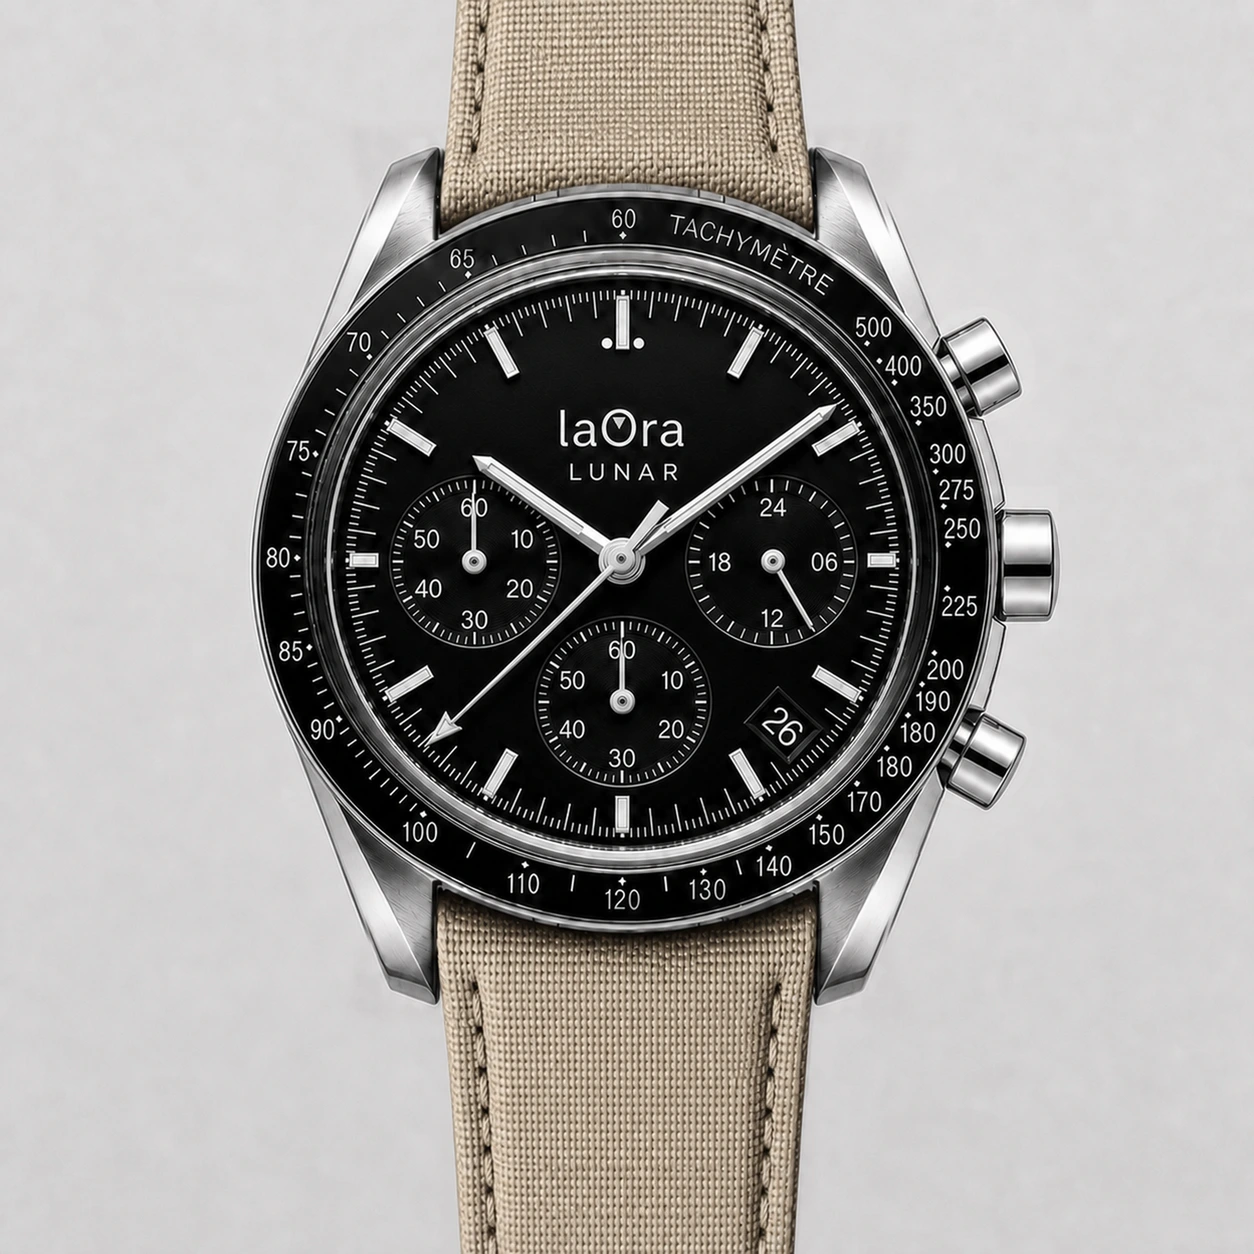
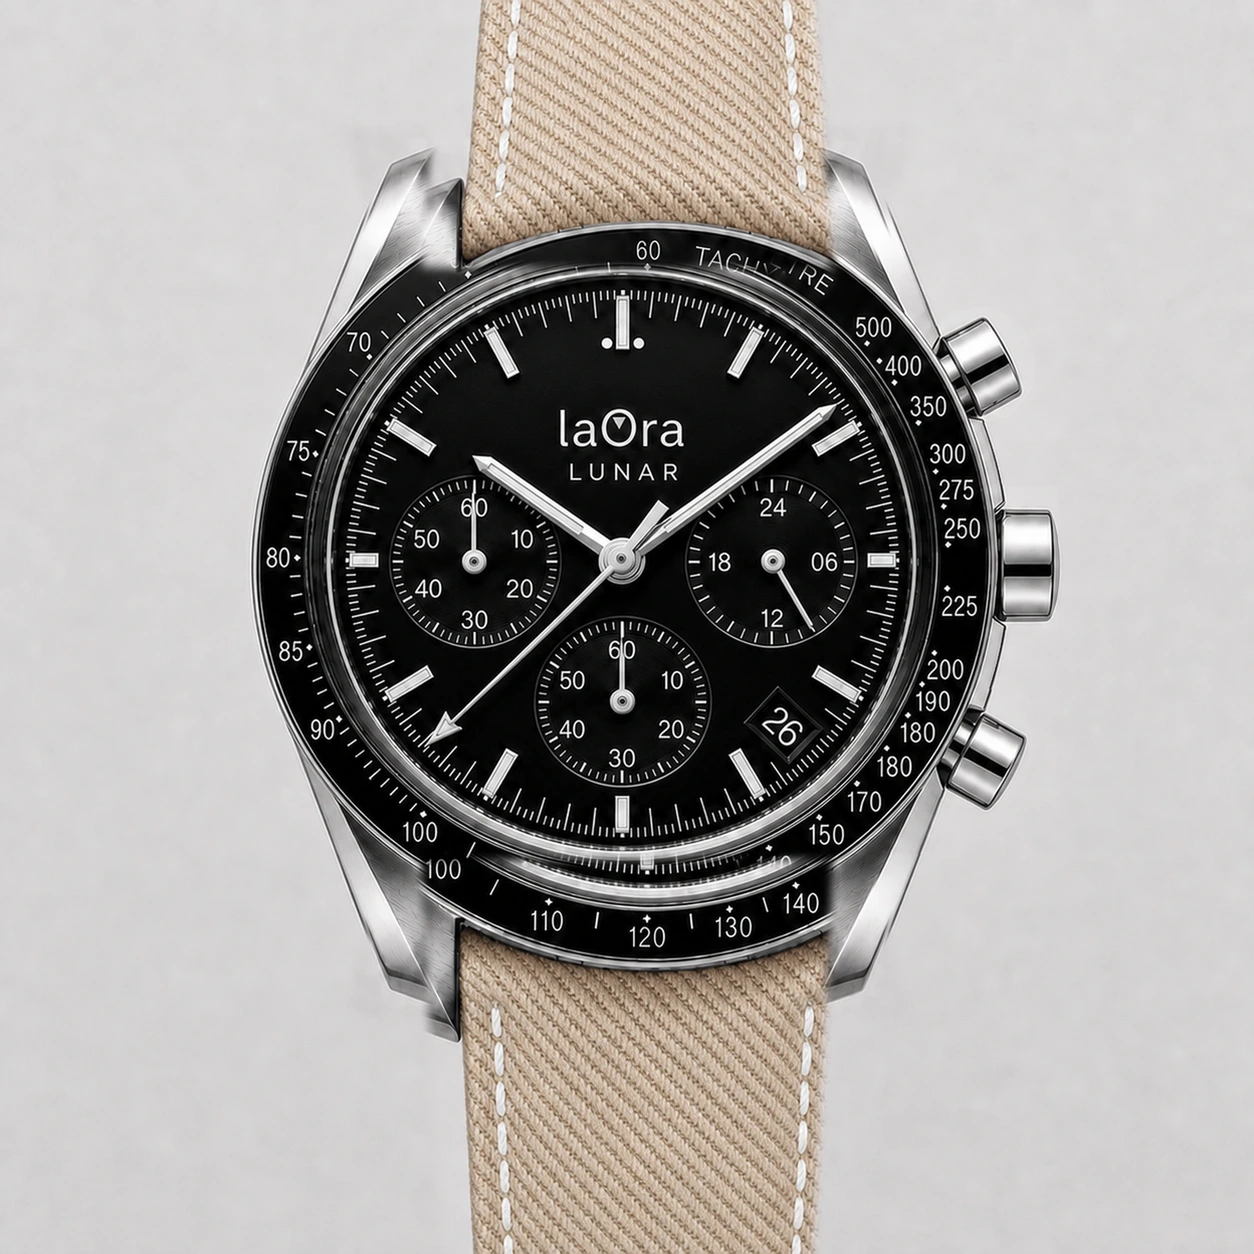
Lunar: el Nato + Piel es el tejido de espiga con hebilla mariposa
Sustituye a la familia de lona lisa, que se retira. Cinco colores: topo,
antracita, gris, azul claro y beige, todos con pespunte blanco y hebilla
mariposa plateada, a 5,48 €.

Alta en el libro P-049 a P-053 (anuncio 1005011862298088) con la captura
completa. Los cinco colores del proveedor cuadran uno a uno con las
cinco fotos.

Changed region(s): [[0.311, 0.6842, 0.6842, 1.0], [0.311, 0.0, 0.6842, 0.2177]]

diff --git a/lunar.html b/lunar.html
@@ -281,30 +281,16 @@
     /* Nato 11,29 € y nato+piel 4,79 € (Óscar, 18/08; el segundo es
        precio de OFERTA, reverificar antes de comprar). Todas con
        hebilla clásica plateada. */
-    'nato-piel-verde-militar': { coste: 4.79, cierre: 'Hebilla clásica plateada',
-      tec: 'nato de lona verde oliva con canto de piel, hebilla clásica de acero plateado' },
-    'nato-piel-azul': { coste: 4.79, cierre: 'Hebilla clásica plateada',
-      tec: 'nato de lona azul marino con canto de piel, hebilla clásica de acero plateado' },
-    'nato-piel-beige': { coste: 4.79, cierre: 'Hebilla clásica plateada',
-      tec: 'nato de lona beige con canto de piel, hebilla clásica de acero plateado' },
-    'nato-piel-gris-claro': { coste: 4.79, cierre: 'Hebilla clásica plateada',
-      tec: 'nato de lona gris claro con canto de piel, hebilla clásica de acero plateado' },
-    'nato-piel-naranja': { coste: 4.79, cierre: 'Hebilla clásica plateada',
-      tec: 'nato de lona naranja con canto de piel, hebilla clásica de acero plateado' },
-    'nato-piel-negro': { coste: 4.79, cierre: 'Hebilla clásica plateada',
-      tec: 'nato de lona negra con canto de piel, hebilla clásica de acero plateado' },
-    'nato-verde-militar': { coste: 11.29, cierre: 'Hebilla clásica plateada',
-      tec: 'nato de tejido verde militar de una pieza, pasadores y hebilla de acero' },
-    'nato-azul': { coste: 11.29, cierre: 'Hebilla clásica plateada',
-      tec: 'nato de tejido azul de una pieza, pasadores y hebilla de acero' },
-    'nato-beige': { coste: 11.29, cierre: 'Hebilla clásica plateada',
-      tec: 'nato de tejido beige de una pieza, pasadores y hebilla de acero' },
-    'nato-gris-claro': { coste: 11.29, cierre: 'Hebilla clásica plateada',
-      tec: 'nato de tejido gris claro de una pieza, pasadores y hebilla de acero' },
-    'nato-negro': { coste: 11.29, cierre: 'Hebilla clásica plateada',
-      tec: 'nato de tejido negro de una pieza, pasadores y hebilla de acero' },
-    'nato-negro-gris': { coste: 11.29, cierre: 'Hebilla clásica plateada',
-      tec: 'nato de tejido negro con franjas grises, pasadores y hebilla de acero' },
+    'nato-piel-topo': { coste: 5.48, cierre: 'Hebilla mariposa plateada',
+      tec: 'tejido de espiga color topo con pespunte blanco, hebilla mariposa de acero plateado' },
+    'nato-piel-antracita': { coste: 5.48, cierre: 'Hebilla mariposa plateada',
+      tec: 'tejido de espiga antracita con pespunte blanco, hebilla mariposa de acero plateado' },
+    'nato-piel-gris': { coste: 5.48, cierre: 'Hebilla mariposa plateada',
+      tec: 'tejido de espiga gris con pespunte blanco, hebilla mariposa de acero plateado' },
+    'nato-piel-azul-claro': { coste: 5.48, cierre: 'Hebilla mariposa plateada',
+      tec: 'tejido de espiga azul claro con pespunte blanco, hebilla mariposa de acero plateado' },
+    'nato-piel-beige': { coste: 5.48, cierre: 'Hebilla mariposa plateada',
+      tec: 'tejido de espiga beige con pespunte blanco, hebilla mariposa de acero plateado' },
     'brazalete-negro-pvd': {
       coste: 26.39, cierre: 'Hebilla desplegable',
       tec: 'brazalete de acero 316L con recubrimiento negro tipo PVD, tres eslabones y hebilla desplegable' },
@@ -380,15 +366,14 @@
       'negro':         { nombre: 'Negro',         color: '#1C1D1F', correa: 'nato-negro' },
       'negro-gris':    { nombre: 'Negro y gris',  color: '#4A4C4E', correa: 'nato-negro-gris' } } },
 
-    /* Nato + piel: lona lisa con canto de piel. Óscar pidió cuatro
-       colores y ha entregado seis: se montan los seis. */
+    /* Nato + piel: tejido de espiga con pespunte blanco y hebilla
+       mariposa (Óscar, 18/08). Sustituye a la de lona lisa. */
     'nato-piel': { nombre: 'Nato + Piel', colores: {
-      'verde-militar': { nombre: 'Verde militar', color: '#4F5540', correa: 'nato-piel-verde-militar' },
-      'azul':          { nombre: 'Azul marino',   color: '#2E3646', correa: 'nato-piel-azul' },
-      'beige':         { nombre: 'Beige',         color: '#C3B49B', correa: 'nato-piel-beige' },
-      'gris-claro':    { nombre: 'Gris claro',    color: '#BDC0C2', correa: 'nato-piel-gris-claro' },
-      'naranja':       { nombre: 'Naranja',       color: '#EE6C1E', correa: 'nato-piel-naranja' },
-      'negro':         { nombre: 'Negro',         color: '#2A2A2C', correa: 'nato-piel-negro' } } },
+      'topo':       { nombre: 'Topo',       color: '#8C7F76', correa: 'nato-piel-topo' },
+      'antracita':  { nombre: 'Antracita',  color: '#3C3E40', correa: 'nato-piel-antracita' },
+      'gris':       { nombre: 'Gris',       color: '#6E7175', correa: 'nato-piel-gris' },
+      'azul-claro': { nombre: 'Azul claro', color: '#A9C9E6', correa: 'nato-piel-azul-claro' },
+      'beige':      { nombre: 'Beige',      color: '#CDBFA6', correa: 'nato-piel-beige' } } },
 
     /* El caucho negro se hace con tres costuras, y con una sola foto
        valen las tres: el hilo se tiñe (recolorear_pespunte.py). El azul
@@ -706,7 +691,7 @@
   });
 
   /* El manifiesto manda: de él salen las rutas de todas las capas. */
-  fetch('/assets/img/lunar-config/manifest.json?v=29')
+  fetch('/assets/img/lunar-config/manifest.json?v=30')
     .then(function (r) { return r.json(); })
     .then(function (m) { M = m; normaliza(); pinta(); });
 })();
